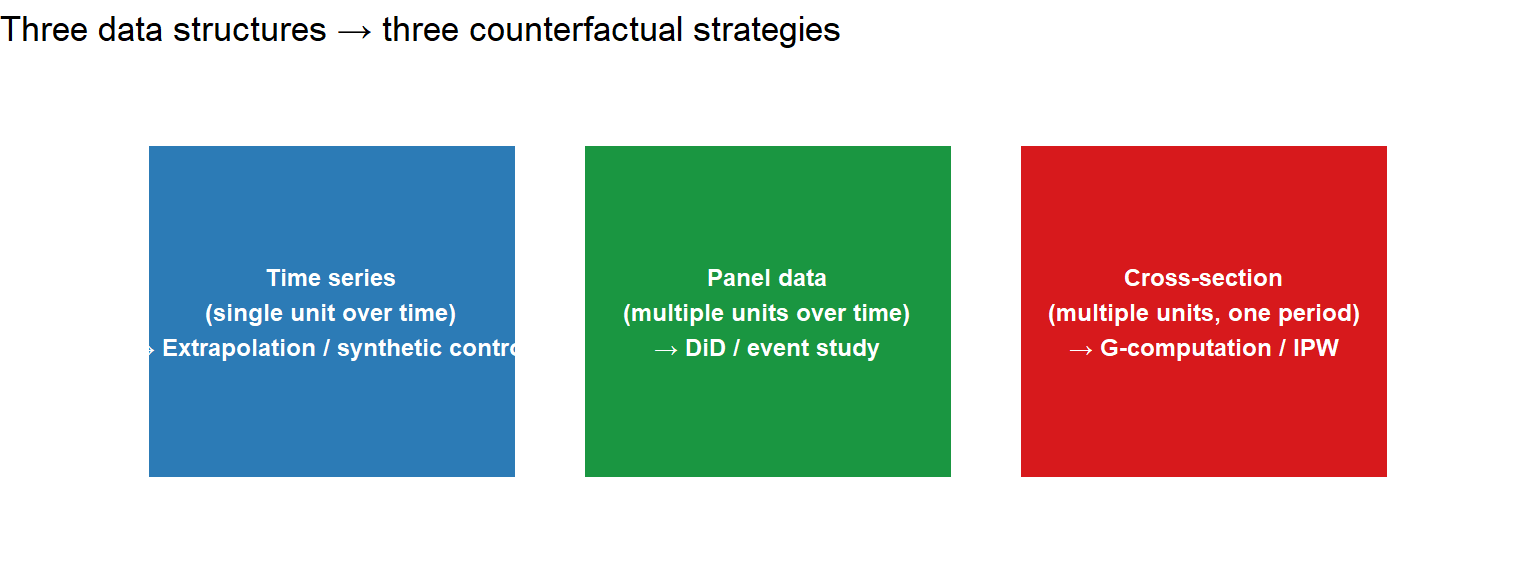
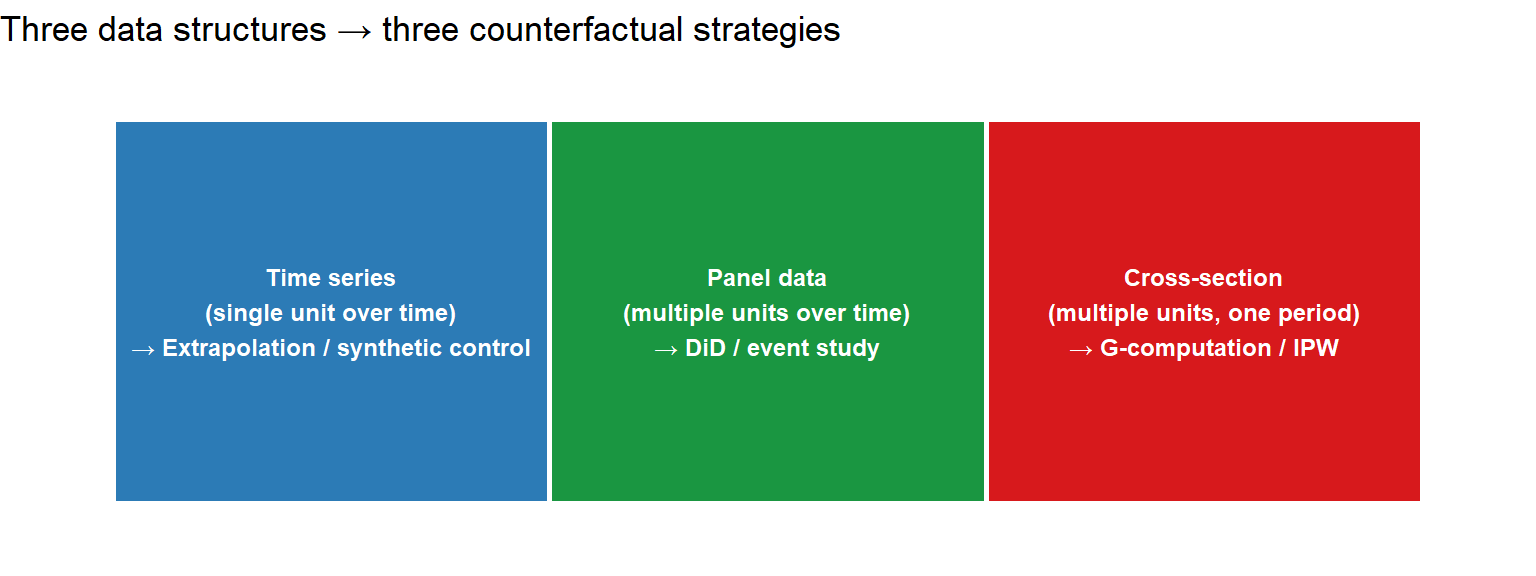
Built site for gh-pages

Changed region(s): [[0.0625, 0.1875, 0.9375, 0.875]]

diff --git a/index.html b/index.html
@@ -439,7 +439,7 @@ window.Quarto = {
 <p>Applied writing on causal inference and econometrics, for analysts and decision-makers who want rigor without the textbook padding.</p>
 <div id="listing-recent-posts" class="quarto-listing quarto-listing-container-grid">
 <div class="list grid quarto-listing-cols-3">
-<div class="g-col-1" data-index="0" data-categories="dGhlb3J5JTJDY2F1c2FsJTIwaW5mZXJlbmNlJTJDZWNvbm9tZXRyaWNz" data-listing-date-sort="1780527600000" data-listing-file-modified-sort="1780582757776" data-listing-date-modified-sort="NaN" data-listing-reading-time-sort="23" data-listing-word-count-sort="4454">
+<div class="g-col-1" data-index="0" data-categories="dGhlb3J5JTJDY2F1c2FsJTIwaW5mZXJlbmNlJTJDZWNvbm9tZXRyaWNz" data-listing-date-sort="1780527600000" data-listing-file-modified-sort="1780583689891" data-listing-date-modified-sort="NaN" data-listing-reading-time-sort="23" data-listing-word-count-sort="4454">
 <a href="./posts/what-is-counterfactual/what-is-counterfactual-index.html" class="quarto-grid-link">
 <div class="quarto-grid-item card h-100 card-left">
 <p class="card-img-top"><img loading='lazy' src="posts\what-is-counterfactual\what-is-counterfactual-index_files\figure-html\missing-cf-1.png" style="height: 150px;"  class="thumbnail-image card-img"/></p>

diff --git a/posts.html b/posts.html
@@ -490,7 +490,7 @@ Reading Time
 </thead>
 <tbody class="list">
 
-<tr data-index="0" data-categories="dGhlb3J5JTJDY2F1c2FsJTIwaW5mZXJlbmNlJTJDZWNvbm9tZXRyaWNz" data-listing-date-sort="1780527600000" data-listing-file-modified-sort="1780582757776" data-listing-date-modified-sort="NaN" data-listing-reading-time-sort="23" data-listing-word-count-sort="4454" data-listing-title-sort="What Is a Counterfactual?" data-listing-filename-sort="what-is-counterfactual-index.qmd">
+<tr data-index="0" data-categories="dGhlb3J5JTJDY2F1c2FsJTIwaW5mZXJlbmNlJTJDZWNvbm9tZXRyaWNz" data-listing-date-sort="1780527600000" data-listing-file-modified-sort="1780583689891" data-listing-date-modified-sort="NaN" data-listing-reading-time-sort="23" data-listing-word-count-sort="4454" data-listing-title-sort="What Is a Counterfactual?" data-listing-filename-sort="what-is-counterfactual-index.qmd">
 <td>
 <span class="listing-date">Jun 4, 2026</span>
 </td>

diff --git a/posts/what-is-counterfactual/what-is-counterfactual-index.html b/posts/what-is-counterfactual/what-is-counterfactual-index.html
@@ -1637,7 +1637,7 @@ window.Quarto = {
 <span id="cb1-465"><a href="#cb1-465" aria-hidden="true" tabindex="-1"></a>)</span>
 <span id="cb1-466"><a href="#cb1-466" aria-hidden="true" tabindex="-1"></a></span>
 <span id="cb1-467"><a href="#cb1-467" aria-hidden="true" tabindex="-1"></a><span class="fu">ggplot</span>(df_boxes, <span class="fu">aes</span>(<span class="at">x =</span> x, <span class="at">y =</span> <span class="dv">1</span>, <span class="at">label =</span> label, <span class="at">fill =</span> col)) <span class="sc">+</span></span>
-<span id="cb1-468"><a href="#cb1-468" aria-hidden="true" tabindex="-1"></a>  <span class="fu">geom_tile</span>(<span class="at">width =</span> <span class="fl">0.85</span>, <span class="at">height =</span> <span class="fl">0.7</span>, <span class="at">colour =</span> <span class="st">"white"</span>, <span class="at">linewidth =</span> <span class="dv">1</span>) <span class="sc">+</span></span>
+<span id="cb1-468"><a href="#cb1-468" aria-hidden="true" tabindex="-1"></a>  <span class="fu">geom_tile</span>(<span class="at">width =</span> <span class="dv">1</span>, <span class="at">height =</span> <span class="fl">0.8</span>, <span class="at">colour =</span> <span class="st">"white"</span>, <span class="at">linewidth =</span> <span class="dv">1</span>) <span class="sc">+</span></span>
 <span id="cb1-469"><a href="#cb1-469" aria-hidden="true" tabindex="-1"></a>  <span class="fu">geom_text</span>(<span class="at">colour =</span> <span class="st">"white"</span>, <span class="at">fontface =</span> <span class="st">"bold"</span>, <span class="at">size =</span> <span class="fl">3.2</span>) <span class="sc">+</span></span>
 <span id="cb1-470"><a href="#cb1-470" aria-hidden="true" tabindex="-1"></a>  <span class="fu">scale_fill_identity</span>() <span class="sc">+</span></span>
 <span id="cb1-471"><a href="#cb1-471" aria-hidden="true" tabindex="-1"></a>  <span class="fu">xlim</span>(<span class="fl">0.4</span>, <span class="fl">3.6</span>) <span class="sc">+</span> <span class="fu">ylim</span>(<span class="fl">0.5</span>, <span class="fl">1.5</span>) <span class="sc">+</span></span>